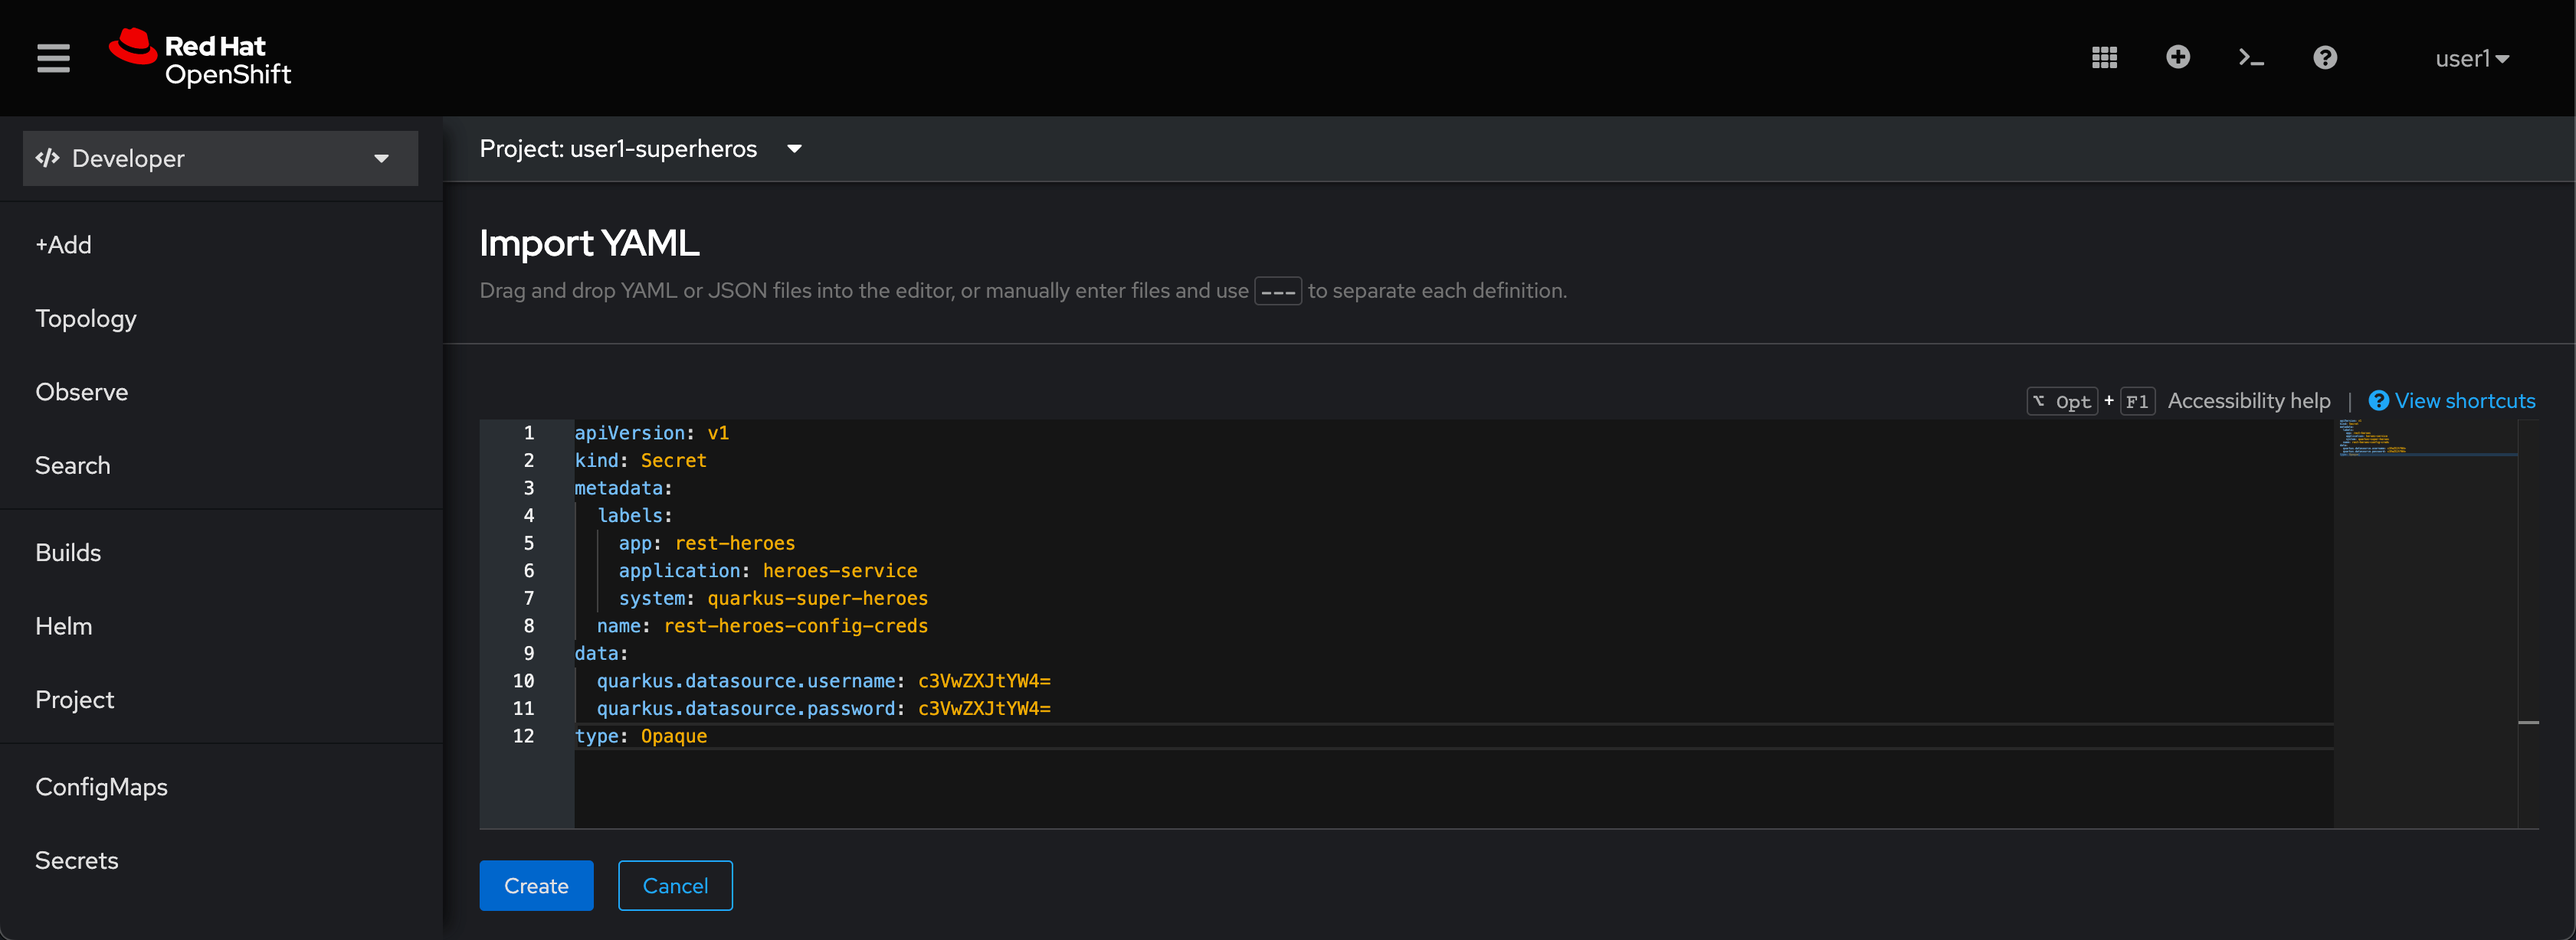
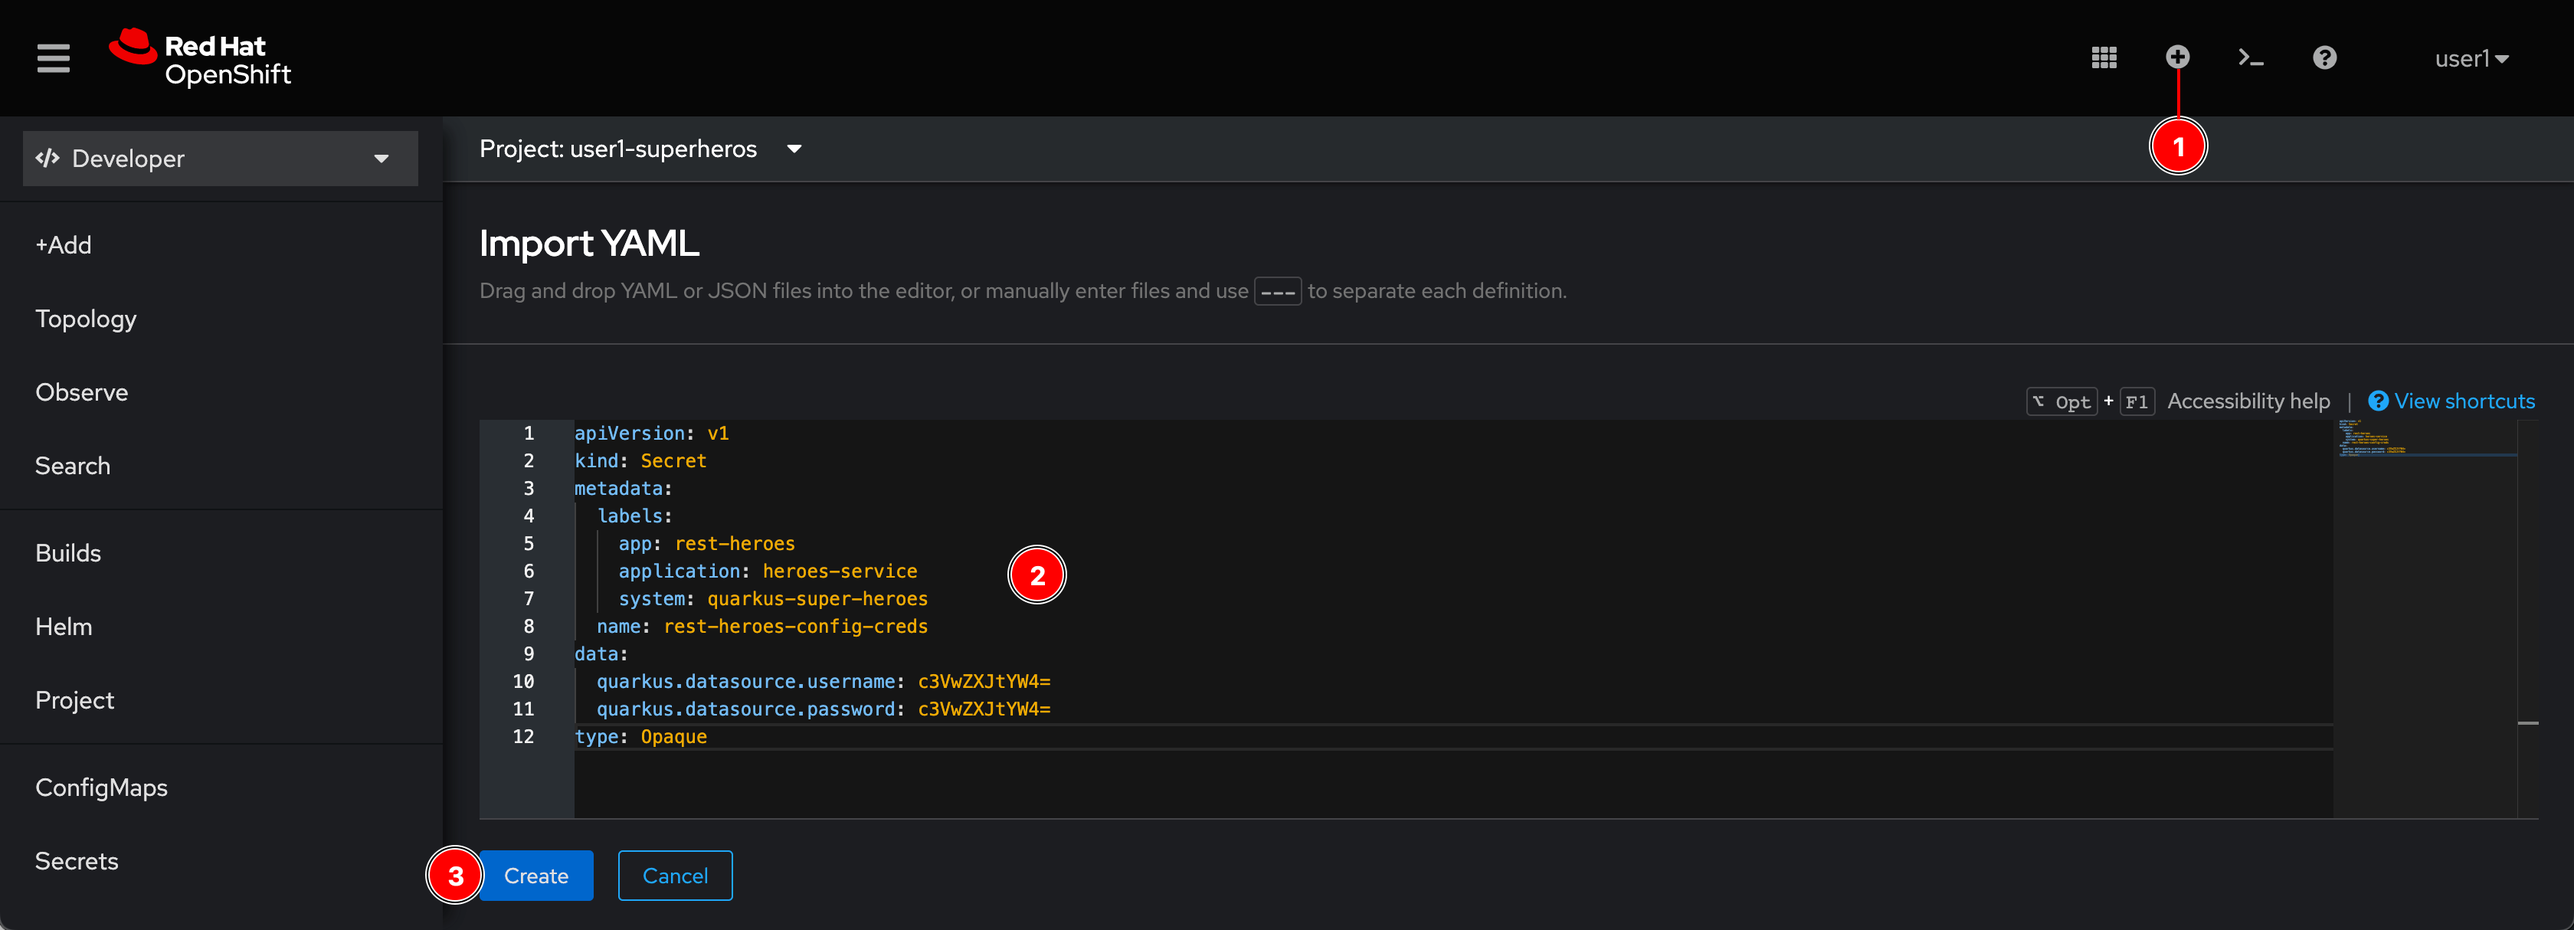
Impovement

diff --git a/documents/application-deployment/hero-microservice-deployment.md b/documents/application-deployment/hero-microservice-deployment.md
@@ -4,8 +4,6 @@
 
 1. Click on ![add](image/add-icon.png) icon located at top right corner of web console.
 
-   ![Create a ConfigMap object](image/hero-microservice-deployment/deploy-1.png)
-
 2. Copy this YAML snippet to the editor and click **Create** button.
 
    _YAML snippet:_
@@ -31,7 +29,7 @@
        %{i,Referer}"
    ```
 
-   ![Create a ConfigMap object](image/hero-microservice-deployment/deploy-2.png)
+   ![Create a ConfigMap object](image/hero-microservice-deployment/deploy-1.png)
 
 3. A **rest-heroes-config** ConfigMap object should be created.
 
